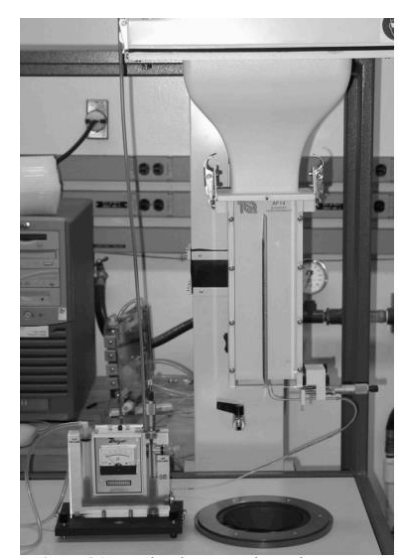
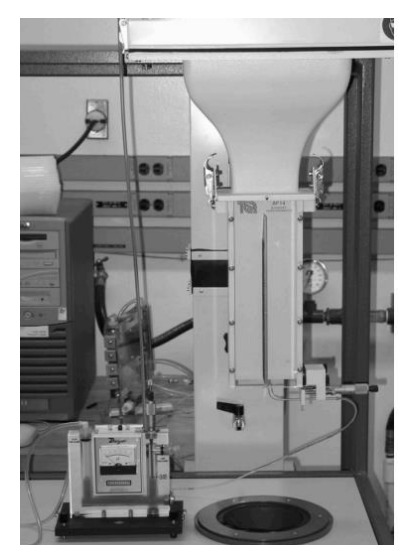
Crop report caption off the wind-tunnel photo

diff --git a/index.html b/index.html
@@ -292,7 +292,7 @@
 
           <li class="work-slide" data-category="fluids">
             <article>
-              <a class="work-slide__media work-slide__media--contain" href="Projects/boundary-layer-flow.html" aria-label="View the flat-plate boundary-layer experiment"><img src="images/Boundary Layer/wind-tunnel-apparatus.png" alt="Low-speed wind tunnel used to measure a flat-plate boundary layer" width="415" height="580" loading="lazy" decoding="async"><span class="work-slide__plate">Project—09</span></a>
+              <a class="work-slide__media work-slide__media--contain" href="Projects/boundary-layer-flow.html" aria-label="View the flat-plate boundary-layer experiment"><img src="images/Boundary Layer/wind-tunnel-apparatus.png?v=2" alt="Low-speed wind tunnel used to measure a flat-plate boundary layer" width="415" height="580" loading="lazy" decoding="async"><span class="work-slide__plate">Project—09</span></a>
               <div class="work-slide__copy">
                 <div class="work-slide__meta"><span class="label">Fluids · Wind tunnel</span><span class="label">09 / 10</span></div>
                 <h3>Boundary Layer Over a Flat Plate</h3>
@@ -433,7 +433,7 @@
         </article>
 
         <article class="feature reveal" data-category="fluids">
-          <a class="feature__media feature__media--contain" href="Projects/boundary-layer-flow.html" aria-label="View the flat-plate boundary-layer experiment"><img src="images/Boundary Layer/wind-tunnel-apparatus.png" alt="Low-speed wind tunnel used to measure a flat-plate boundary layer" width="415" height="580" loading="lazy" decoding="async"><span class="feature__plate">Project—11</span></a>
+          <a class="feature__media feature__media--contain" href="Projects/boundary-layer-flow.html" aria-label="View the flat-plate boundary-layer experiment"><img src="images/Boundary Layer/wind-tunnel-apparatus.png?v=2" alt="Low-speed wind tunnel used to measure a flat-plate boundary layer" width="415" height="580" loading="lazy" decoding="async"><span class="feature__plate">Project—11</span></a>
           <div class="feature__copy">
             <div class="feature__meta"><span class="label">Fluids · Wind tunnel</span><span class="label">11 / 12</span></div>
             <h3>Boundary Layer Over a Flat Plate</h3>

diff --git a/Projects/boundary-layer-flow.html b/Projects/boundary-layer-flow.html
@@ -142,7 +142,7 @@
     </header>
 
     <figure class="cs-hero cs-hero--contain">
-      <img src="../images/Boundary Layer/wind-tunnel-apparatus.png" alt="Low-speed wind tunnel with a flat plate, Pitot-static traverse, and inclined manometer">
+      <img src="../images/Boundary Layer/wind-tunnel-apparatus.png?v=2" alt="Low-speed wind tunnel with a flat plate, Pitot-static traverse, and inclined manometer">
     </figure>
 
     <section class="cs-story" aria-label="Project summary">
@@ -171,7 +171,7 @@
       <h2>How I did it</h2>
       <ol class="cs-steps cs-steps--contain">
         <li>
-          <img src="../images/Boundary Layer/wind-tunnel-apparatus.png" alt="Wind tunnel with Pitot-static traverse" loading="lazy">
+          <img src="../images/Boundary Layer/wind-tunnel-apparatus.png?v=2" alt="Wind tunnel with Pitot-static traverse" loading="lazy">
           <div><span class="cs-step-num">01</span><h3>Traverse</h3><p>Stepped a Pitot-static probe away from the plate at two stations.</p></div>
         </li>
         <li>
